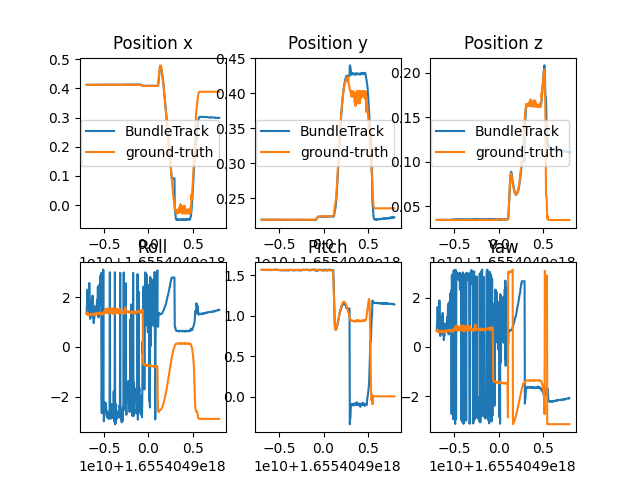
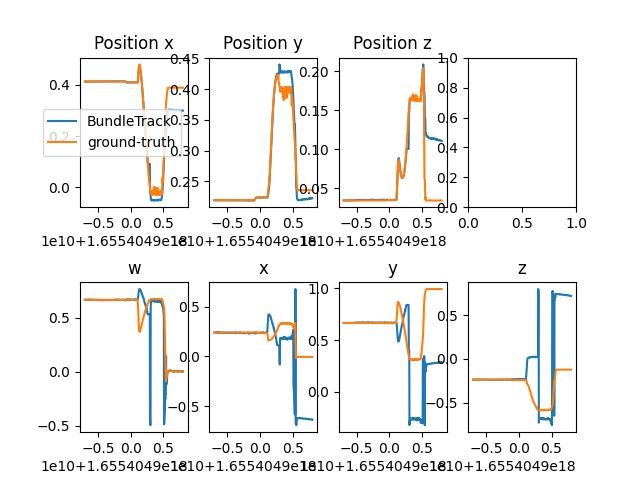
Change to quat to fix gimbal lock

diff --git a/eval.py b/eval.py
@@ -37,7 +37,6 @@ def get_cosine_sim(frame_id):
     output_pose = np.loadtxt(OUTPUT_POSE_DIR + "%04i.txt" % frame_id)
     return 1 - sp.distance.cdist(gt_pose, output_pose, "cosine")
 
-
 def get_angle(P, Q):
     R = np.dot(P, Q.T)
     theta = (np.trace(R) - 1) / 2
@@ -52,7 +51,9 @@ def calculate_translation_error(estimated_pose, ground_truth_pose):
 def calculate_rotation_error(estimated_pose, ground_truth_pose):
     est_rotation = estimated_pose[:3, :3]
     gt_rotation = ground_truth_pose[:3, :3]
-    rotation_error = np.arccos((np.trace(np.dot(est_rotation.T, gt_rotation)) - 1) / 2)
+    cos_similarity = (np.trace(np.dot(est_rotation.T, gt_rotation)) - 1) / 2
+    cos_similarity = np.clip(cos_similarity, -1, 1)
+    rotation_error = np.arccos(cos_similarity)
     return rotation_error
 
 def calculate_success_rate(translation_errors, rotation_errors, translation_threshold, rotation_threshold):
@@ -61,6 +62,36 @@ def calculate_success_rate(translation_errors, rotation_errors, translation_thre
     success_rate = (success_count / num_frames) * 100
     return success_rate
 
+def matrix_to_quaternion(matrix):
+    q = np.empty((4,))
+    trace = matrix[0, 0] + matrix[1, 1] + matrix[2, 2]
+
+    if trace > 0:
+        s = 0.5 / np.sqrt(trace + 1.0)
+        q[0] = 0.25 / s
+        q[1] = (matrix[2, 1] - matrix[1, 2]) * s
+        q[2] = (matrix[0, 2] - matrix[2, 0]) * s
+        q[3] = (matrix[1, 0] - matrix[0, 1]) * s
+    else:
+        if matrix[0, 0] > matrix[1, 1] and matrix[0, 0] > matrix[2, 2]:
+            s = 2.0 * np.sqrt(1.0 + matrix[0, 0] - matrix[1, 1] - matrix[2, 2])
+            q[0] = (matrix[2, 1] - matrix[1, 2]) / s
+            q[1] = 0.25 * s
+            q[2] = (matrix[0, 1] + matrix[1, 0]) / s
+            q[3] = (matrix[0, 2] + matrix[2, 0]) / s
+        elif matrix[1, 1] > matrix[2, 2]:
+            s = 2.0 * np.sqrt(1.0 + matrix[1, 1] - matrix[0, 0] - matrix[2, 2])
+            q[0] = (matrix[0, 2] - matrix[2, 0]) / s
+            q[1] = (matrix[0, 1] + matrix[1, 0]) / s
+            q[2] = 0.25 * s
+            q[3] = (matrix[1, 2] + matrix[2, 1]) / s
+        else:
+            s = 2.0 * np.sqrt(1.0 + matrix[2, 2] - matrix[0, 0] - matrix[1, 1])
+            q[0] = (matrix[1, 0] - matrix[0, 1]) / s
+            q[1] = (matrix[0, 2] + matrix[2, 0]) / s
+            q[2] = (matrix[1, 2] + matrix[2, 1]) / s
+            q[3] = 0.25 * s
+    return q
 
 def plot_xyz(start_frame, end_frame):
     """Plot the x, y, z of BundleTrack output versus ground-truth poses of tagslam."""
@@ -159,8 +190,10 @@ def plot_with_time(bundletrack_time, gt_time, bundletrack_pose_dir, gt_pose_dir)
     bundletrack_time = np.array(bundletrack_time)
     output_x, output_y, output_z = [], [], []  # translation
     gt_x, gt_y, gt_z = [], [], []
-    output_alpha, output_beta, output_gamma = [], [], []
-    gt_alpha, gt_beta, gt_gamma = [], [], []
+    # output_alpha, output_beta, output_gamma = [], [], []
+    # gt_alpha, gt_beta, gt_gamma = [], [], []
+    estimated_w, estimated_x, estimated_y, estimated_z = [], [], [], []
+    ground_truth_w, ground_truth_x, ground_truth_y, ground_truth_z = [], [], [], []
     frame_num = len([name for name in os.listdir(bundletrack_pose_dir)])
     estimated_poses, ground_truth_poses = [], []
     for frame_id in range(1, frame_num + 1):
@@ -176,10 +209,15 @@ def plot_with_time(bundletrack_time, gt_time, bundletrack_pose_dir, gt_pose_dir)
         output_x.append(output_pose[0, 3])
         output_y.append(output_pose[1, 3])
         output_z.append(output_pose[2, 3])
-        alpha, beta, gamma = rotation_matrix_to_euler(output_pose[:3, :3])
-        output_alpha.append(alpha)
-        output_beta.append(beta)
-        output_gamma.append(gamma)
+        # alpha, beta, gamma = rotation_matrix_to_euler(output_pose[:3, :3])
+        # output_alpha.append(alpha)
+        # output_beta.append(beta)
+        # output_gamma.append(gamma)
+        w, x, y, z = matrix_to_quaternion(output_pose)
+        estimated_w.append(w)
+        estimated_x.append(x)
+        estimated_y.append(y)
+        estimated_z.append(z)
 
     for frame_id in range(1, len(gt_time) + 1):
         gt_frame = frame_id
@@ -188,10 +226,15 @@ def plot_with_time(bundletrack_time, gt_time, bundletrack_pose_dir, gt_pose_dir)
         gt_x.append(gt_pose[0, 3])
         gt_y.append(gt_pose[1, 3])
         gt_z.append(gt_pose[2, 3])
-        alpha, beta, gamma = rotation_matrix_to_euler(gt_pose[:3, :3])
-        gt_alpha.append(alpha)
-        gt_beta.append(beta)
-        gt_gamma.append(gamma)
+        # alpha, beta, gamma = rotation_matrix_to_euler(gt_pose[:3, :3])
+        # gt_alpha.append(alpha)
+        # gt_beta.append(beta)
+        # gt_gamma.append(gamma)
+        w_, x_, y_, z_ = matrix_to_quaternion(gt_pose)
+        ground_truth_w.append(w_) 
+        ground_truth_x.append(x_)
+        ground_truth_y.append(y_)
+        ground_truth_z.append(z_)
 
     output_x, output_y, output_z = (
         np.array(output_x),
@@ -214,7 +257,7 @@ def plot_with_time(bundletrack_time, gt_time, bundletrack_pose_dir, gt_pose_dir)
     print(f"Rotation Error: {np.degrees(np.mean(rotation_errors)):.4f} degrees")
     print(f"Success Rate: {success_rate:.2f}%")
 
-    fig, axs = plt.subplots(2, 3)
+    fig, axs = plt.subplots(2, 4)
     # fig.suptitle("Toss %i" % TOSS_IDX)
     axs[0, 0].plot(bundletrack_time, output_x, label="BundleTrack")
     axs[0, 0].plot(gt_time, gt_x, label="ground-truth")
@@ -224,26 +267,41 @@ def plot_with_time(bundletrack_time, gt_time, bundletrack_pose_dir, gt_pose_dir)
     axs[0, 1].plot(bundletrack_time, output_y, label="BundleTrack")
     axs[0, 1].plot(gt_time, gt_y, label="ground-truth")
     axs[0, 1].set_title("Position y")
-    axs[0, 1].legend()
 
     axs[0, 2].plot(bundletrack_time, output_z, label="BundleTrack")
     axs[0, 2].plot(gt_time, gt_z, label="ground-truth")
     axs[0, 2].set_title("Position z")
-    axs[0, 2].legend()
+    
+    axs[1, 0].plot(bundletrack_time, estimated_w, label="BundleTrack")
+    axs[1, 0].plot(gt_time, ground_truth_w, label="ground-truth")
+    axs[1, 0].set_title("w")
+    
+    axs[1, 1].plot(bundletrack_time, estimated_x, label="BundleTrack")
+    axs[1, 1].plot(gt_time, ground_truth_x, label="ground-truth")
+    axs[1, 1].set_title("x")
+    
+    axs[1, 2].plot(bundletrack_time, estimated_y, label="BundleTrack")
+    axs[1, 2].plot(gt_time, ground_truth_y, label="ground-truth")
+    axs[1, 2].set_title("y")
+    
+    axs[1, 3].plot(bundletrack_time, estimated_z, label="BundleTrack")
+    axs[1, 3].plot(gt_time, ground_truth_z, label="ground-truth")
+    axs[1, 3].set_title("z")
 
-    axs[1, 0].plot(bundletrack_time, output_alpha, label="BundleTrack")
-    axs[1, 0].plot(gt_time, gt_alpha, label="ground-truth")
-    axs[1, 0].set_title("Roll")
+    # axs[1, 0].plot(bundletrack_time, output_alpha, label="BundleTrack")
+    # axs[1, 0].plot(gt_time, gt_alpha, label="ground-truth")
+    # axs[1, 0].set_title("Roll")
 
-    axs[1, 1].plot(bundletrack_time, output_beta, label="BundleTrack")
-    axs[1, 1].plot(gt_time, gt_beta, label="ground-truth")
-    axs[1, 1].set_title("Pitch")
+    # axs[1, 1].plot(bundletrack_time, output_beta, label="BundleTrack")
+    # axs[1, 1].plot(gt_time, gt_beta, label="ground-truth")
+    # axs[1, 1].set_title("Pitch")
 
-    axs[1, 2].plot(bundletrack_time, output_gamma, label="BundleTrack")
-    axs[1, 2].plot(gt_time, gt_gamma, label="ground-truth")
-    axs[1, 2].set_title("Yaw")
+    # axs[1, 2].plot(bundletrack_time, output_gamma, label="BundleTrack")
+    # axs[1, 2].plot(gt_time, gt_gamma, label="ground-truth")
+    # axs[1, 2].set_title("Yaw")
 
     spacing = 0.100
+    fig.subplots_adjust(hspace=0.5)
     fig.subplots_adjust(bottom=spacing)
     plt.show()
     plt.savefig('result_bundletrack2.0_latest.png')
